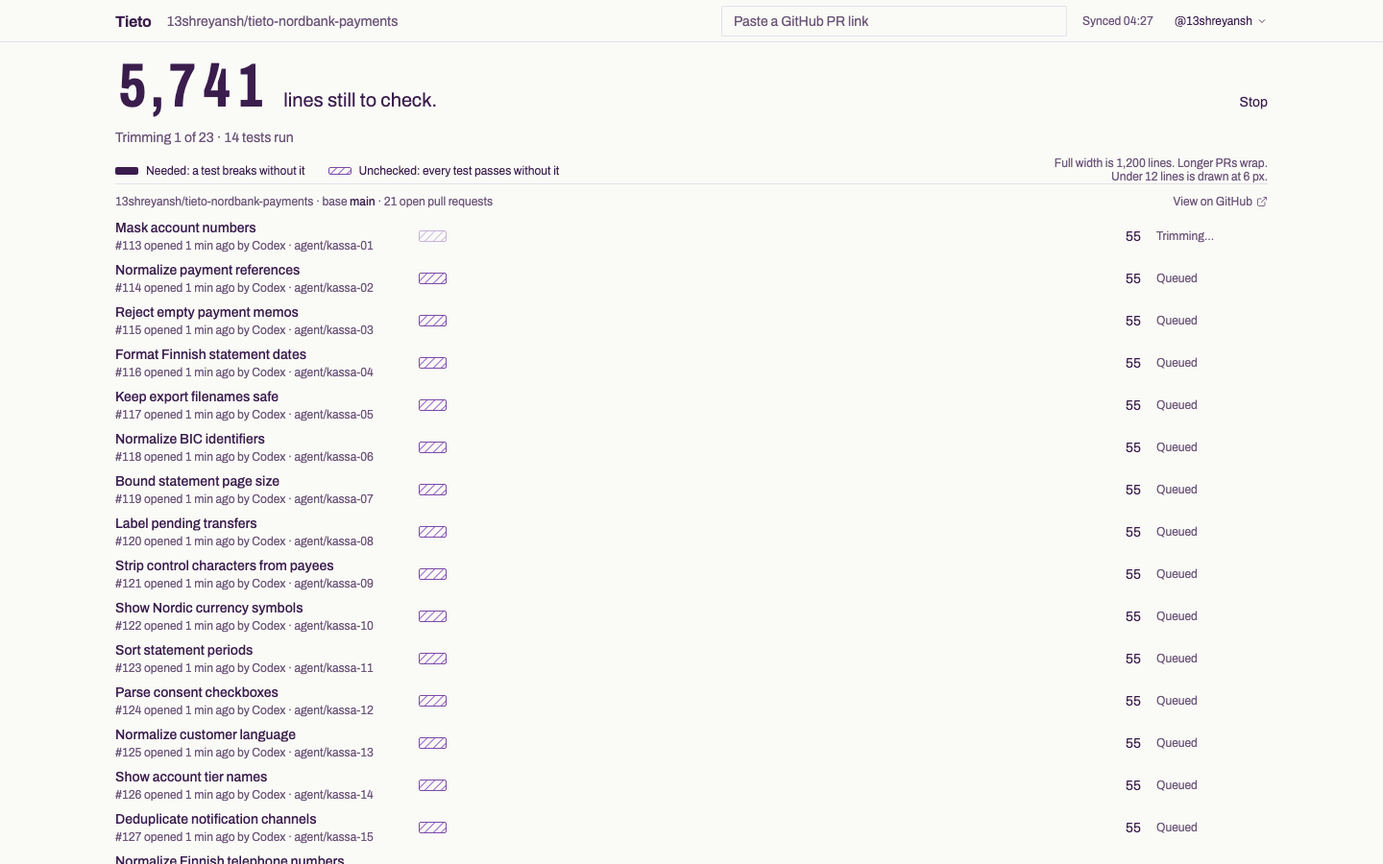
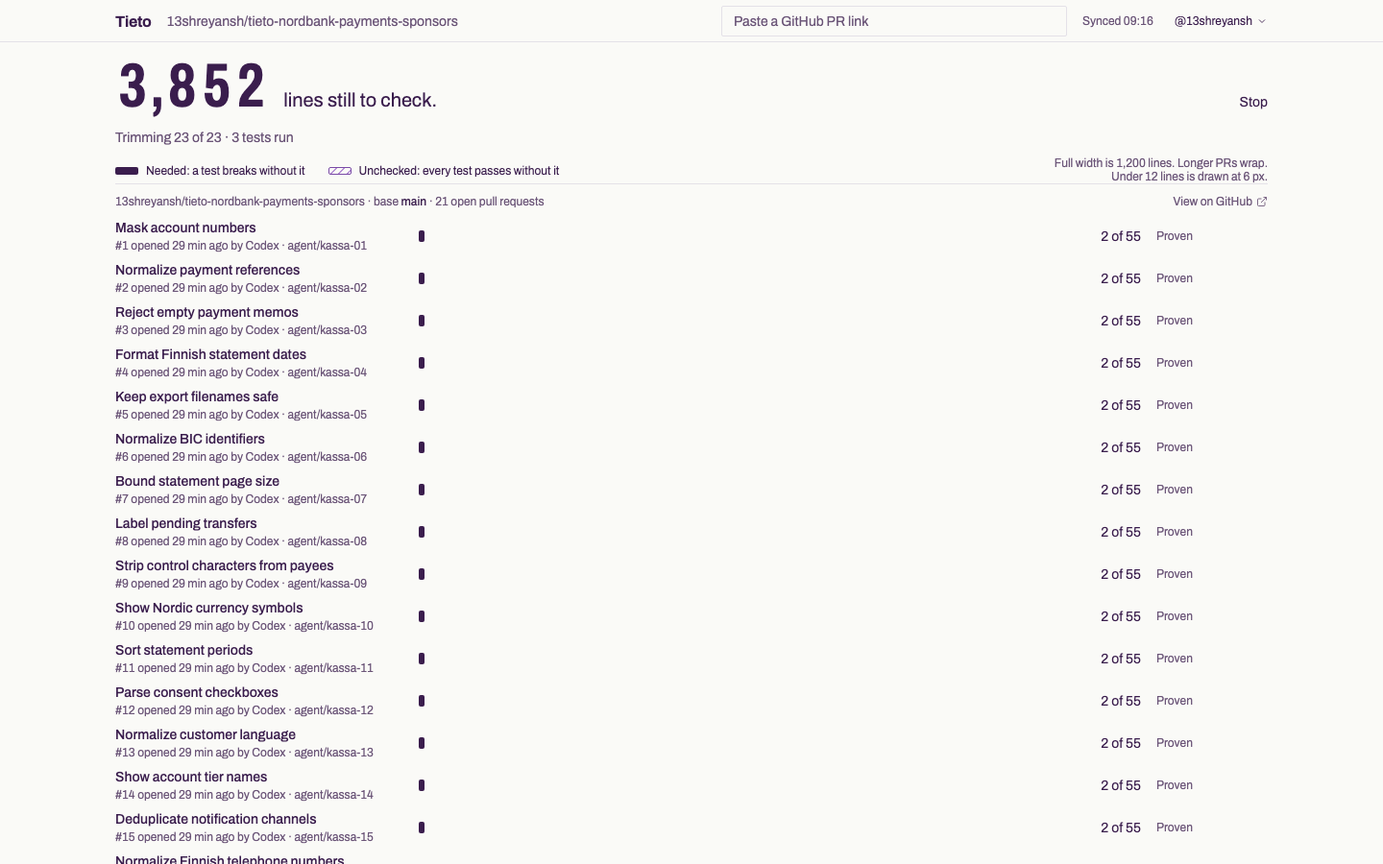
Bind cached runs to producer contracts and restore mobile proof layout

diff --git a/app/app.js b/app/app.js
@@ -85,7 +85,7 @@
   const grouped=p.tests>48,n=grouped?p.lampFiles:p.tests;
   return `<span class="lamps" aria-hidden="true">${Array.from({length:n||0},()=>`<i class="lamp ${['queued','running'].includes(p.status)?'running':p.kind==='junior'?'failed':''}"></i>`).join('')}</span><span class="proof-copy">${p.passed} of ${p.tests} ${p.kind==='junior'?'safety checks pass on this PR.':'tests pass on the trimmed PR.'}${grouped?' Lamps represent test files.':''}</span>`;
  }
- function proof(p){return `<div class="ledger-line proof"><dt>Proof</dt><dd>${p.tests===null?`<span>${p.status==='running'?'Trimming…':p.status==='queued'?'Queued':p.status==='unsupported'?'No test run for this repository.':'No test run yet.'}</span>`:lamps(p)}${p.cachedMeasurement?`<span class="caption">Same source · measured ${escape(clock(p.measurementOriginAt))} · PR #${escape(p.measurementOriginNumber)} · head ${escape((p.measurementOriginHead||'').slice(0,7))}. Re-run for a fresh check.</span>`:p.executionProvider==='modal'?'<span class="caption">Tests run in Modal.</span>':''}<div class="proof-links">${p.tests!==null?`<a href="/api/proof?id=${encodeURIComponent(p.id)}" target="_blank" rel="noopener">Recorded commands & results</a>`:''}${p.codeContext?.available?`<a href="/api/context?id=${encodeURIComponent(p.id)}" target="_blank" rel="noopener">Code context</a>`:''}${p.executionProvider==='modal'?`<a href="/api/run-log?id=${encodeURIComponent(p.id)}" target="_blank" rel="noopener">Execution archive</a>`:''}${p.tests!==null?`<button class="plain" data-action="recheck" ${running()||pending?'disabled':''}>Re-run tests</button>`:''}</div></dd></div>`;}
+ function proof(p){return `<div class="ledger-line proof"><dt>Proof</dt><dd>${p.tests===null?`<span>${p.status==='running'?'Trimming…':p.status==='queued'?'Queued':p.status==='unsupported'?'No test run for this repository.':'No test run yet.'}</span>`:lamps(p)}<div class="proof-links">${p.tests!==null?`<a href="/api/proof?id=${encodeURIComponent(p.id)}" target="_blank" rel="noopener">Run details</a>`:''}${p.codeContext?.available?`<a href="/api/context?id=${encodeURIComponent(p.id)}" target="_blank" rel="noopener">Code context</a>`:''}${p.archiveStored?`<a href="/api/run-log?id=${encodeURIComponent(p.id)}" target="_blank" rel="noopener">Execution archive</a>`:''}${p.tests!==null?`<button class="plain" data-action="recheck" ${running()||pending?'disabled':''}>Re-run tests</button>`:''}</div></dd></div>`;}
  function riskPanel(p){
   const risk=p.risk[riskIndex]||p.risk[0];if(!risk)return '';
   return `<section class="risk-panel"><div class="risk-head"><span>${escape(risk.path)} · ${risk.start}–${risk.start+risk.lines.length-1}</span>${p.risk.length>1?'<button class="plain" data-action="next-risk">Next check</button>':'<button class="plain" data-action="panel">Close</button>'}</div><div class="code">${risk.lines.slice(0,8).map((line,i)=>`<span class="code-line ${i===risk.marked?'marked':''}"><span class="code-number">${risk.start+i}</span>${escape(line)}</span>`).join('')}</div><p class="risk-note">${escape(risk.note)}</p></section>`;
@@ -101,7 +101,7 @@
   else if(junior)action=`<button class="primary" data-action="block" ${pending?'disabled':''}>${pending==='block'?'Blocking…':'Block and ask what they meant'}</button><span class="key-hint">B</span>`;
   else if(R.proven(p))action=`<span class="action-copy">Merges ${p.kept} of ${p.written} lines into main</span><button class="primary" data-action="finish" data-id="${p.id}" ${pending?'disabled':''}>${pending==='finish'?'Finishing…':'Finish'}</button><span class="key-hint">Enter</span>`;
   else action=`<div class="action-copy"><div contenteditable="true" role="textbox" aria-label="Note to the agent" class="editable" id="agent-note">${escape(notes.get(p.id)??p.note)}</div></div><button class="primary" data-action="return" ${pending?'disabled':''}>${pending==='return'?'Sending…':'Send back trimmed'}</button><span class="key-hint">S</span>`;
-  return `<main class="ledger ${panel?'risk-open':''}"><nav class="ledger-nav"><button class="plain" data-action="inbox">${arrow} Inbox · ${data.prs.length} left</button></nav><h1>${escape(p.title)}</h1><div class="metadata"><a href="${escape(p.github)}" target="_blank" rel="noopener">${escape(p.repo)} #${p.number}</a><span>opened ${ago(p.createdAt)} by ${escape(p.agent)}</span>${p.branch?`<span>${escape(p.branch)}${p.outside?'':' into main'}</span>`:''}${p.headSha?`<span>head ${escape(p.headSha.slice(0,7))}</span>`:''}<a href="${escape(p.github)}/files" target="_blank" rel="noopener">Check on GitHub</a>${isDone?'<span>Measured</span>':''}</div>${namedBar(p)}${panel?'<button class="mobile-back" data-action="panel">Back to ledger</button>':''}<dl class="ledger-lines"><div class="ledger-line"><dt>Asked</dt><dd>"${escape(p.ask)}"${junior?` <span class="caption">This can't be checked. No test can tell when it's done.</span>`:''}</dd></div>${isDone?`<div class="ledger-line"><dt>Did</dt><dd>${junior?'Changes login, pricing and a database migration.':`Did it in <strong>${p.kept}</strong> lines. ${p.neededFailures} failing checks without them.`}</dd></div><div class="ledger-line"><dt>Extra</dt><dd>${junior?'Nothing is provably needed.':p.unchecked?`${format(p.unchecked)} lines nothing checks, extra or untested. All ${p.tests} tests pass without them.<br>${extra(p).map(b=>`<button class="extra-chip" data-action="restore" data-block="${escape(b.id)}">${escape(b.name)} · ${format(b.lines)}</button>`).join('')}`:'Nothing extra.'}</dd></div><div class="ledger-line"><dt>Read these</dt><dd>${junior?`<span class="check-summary">3 changes break production.</span><div class="junior-checks">${p.risk.map((r,i)=>`<button class="plain" data-action="risk" data-index="${i}">${escape(r.note)}</button>`).join('')}</div>`:p.risk.length?`<button class="read-link" data-action="panel">${p.readLines} lines to read.${p.kind==='cap'?' 1 looks wrong.':''}</button>`:'Nothing risky.'}</dd></div>`:''}${!panel?proof(p):''}</dl>${panel?riskPanel(p)+`<dl>${proof(p)}</dl>`:''}${error?`<p class="inline-error" role="alert">${escape(error)}</p>`:''}<div class="actions">${action}</div></main>`;
+  return `<main class="ledger ${panel?'risk-open':''}"><nav class="ledger-nav"><button class="plain" data-action="inbox">${arrow} Inbox · ${data.prs.length} left</button></nav><h1>${escape(p.title)}</h1><div class="metadata"><a href="${escape(p.github)}" target="_blank" rel="noopener">${escape(p.repo)} #${p.number}</a><span>opened ${ago(p.createdAt)} by ${escape(p.agent)}</span>${p.branch?`<span>${escape(p.branch)}${p.outside?'':' into main'}</span>`:''}${p.headSha?`<span>head ${escape(p.headSha.slice(0,7))}</span>`:''}<a href="${escape(p.github)}/files" target="_blank" rel="noopener">Check on GitHub</a>${isDone?`<span>${p.executionProvider==='modal'?'Modal · ':''}measured ${escape(clock(p.measurementOriginAt||p.measuredAt))}${p.cachedMeasurement?' · PR #'+escape(p.measurementOriginNumber):''}</span>`:''}</div>${namedBar(p)}${panel?'<button class="mobile-back" data-action="panel">Back to ledger</button>':''}<dl class="ledger-lines"><div class="ledger-line"><dt>Asked</dt><dd>"${escape(p.ask)}"${junior?` <span class="caption">This can't be checked. No test can tell when it's done.</span>`:''}</dd></div>${isDone?`<div class="ledger-line"><dt>Did</dt><dd>${junior?'Changes login, pricing and a database migration.':`Did it in <strong>${p.kept}</strong> lines. ${p.neededFailures} failing checks without them.`}</dd></div><div class="ledger-line"><dt>Extra</dt><dd>${junior?'Nothing is provably needed.':p.unchecked?`${format(p.unchecked)} lines nothing checks, extra or untested. All ${p.tests} tests pass without them.<br>${extra(p).map(b=>`<button class="extra-chip" data-action="restore" data-block="${escape(b.id)}">${escape(b.name)} · ${format(b.lines)}</button>`).join('')}`:'Nothing extra.'}</dd></div><div class="ledger-line"><dt>Read these</dt><dd>${junior?`<span class="check-summary">3 changes break production.</span><div class="junior-checks">${p.risk.map((r,i)=>`<button class="plain" data-action="risk" data-index="${i}">${escape(r.note)}</button>`).join('')}</div>`:p.risk.length?`<button class="read-link" data-action="panel">${p.readLines} lines to read.${p.kind==='cap'?' 1 looks wrong.':''}</button>`:'Nothing risky.'}</dd></div>`:''}${!panel?proof(p):''}</dl>${panel?riskPanel(p)+`<dl>${proof(p)}</dl>`:''}${error?`<p class="inline-error" role="alert">${escape(error)}</p>`:''}<div class="actions">${action}</div></main>`;
  }
  function render(){
   const focused=document.activeElement?.id;

diff --git a/scripts/product/client-regressions.js b/scripts/product/client-regressions.js
@@ -8,5 +8,6 @@ async function setup(rows,repo){const dom=new JSDOM('<div id="app"></div>',{url:
  {const{dom,w}=await setup([{...p,id:'junior',kind:'junior',tests:3,passed:0}]),d=w.document;d.querySelector('[data-action="open"]').click();assert.match(d.querySelector('.proof-copy').textContent,/0 of 3 safety checks pass on this PR/);assert.doesNotMatch(d.querySelector('.proof-copy').textContent,/trimmed PR/);dom.window.close();}
  {const{dom,w}=await setup([p],'13shreyansh/tieto-nordbank-payments-sponsors'),d=w.document;assert.equal(d.querySelector('.workspace-name').getAttribute('href'),'https://github.com/13shreyansh/tieto-nordbank-payments-sponsors');assert.match(d.querySelector('.repo-line').textContent,/tieto-nordbank-payments-sponsors/);dom.window.close();}
  {const{dom,w}=await setup([p],'evil.example/<script>'),d=w.document;assert.equal(d.querySelector('.workspace-name').getAttribute('href'),'https://github.com/13shreyansh/tieto-nordbank-payments');dom.window.close();}
+ {const{dom,w}=await setup([{...p,executionProvider:'modal',codeContext:{available:true},measuredAt:new Date().toISOString()}]),d=w.document;d.querySelector('[data-action="open"]').click();assert.match(d.querySelector('.metadata').textContent,/Modal · measured/);assert.equal(d.querySelector('.proof .caption'),null,'provider status must not add a proof row that overlaps fixed phone actions');assert.equal([...d.querySelectorAll('.proof-links a')].some(a=>a.textContent==='Execution archive'),false,'pending Atlas must not advertise an archive');assert.equal(d.querySelector('.proof-links a').textContent,'Run details');dom.window.close();}
  console.log('Keyboard, note editor, safety proof and truthful isolated-workspace routing regressions passed.');
 })().catch(e=>{console.error(e);process.exitCode=1});

diff --git a/scripts/product/e2e.spec.js b/scripts/product/e2e.spec.js
@@ -35,7 +35,7 @@ for(const width of [390,1440])test(`real deployed workspace flow ${width}`,async
  await expect(page.locator('.footline')).toContainText('19 merged');await expect(page.getByRole('button',{name:'Revert last merge',exact:true})).toBeVisible();await shot('04-merged');
  await page.locator('.row-title[data-id="KASSA-CAP"]').click();await expect(page.locator('.ledger h1')).toHaveText('Cap instant-transfer fees');await page.waitForTimeout(1200);await expect(page.locator('.ledger-line dd').first()).toHaveCSS('font-size','16px');await expect(page.locator('.ledger-line dt').first()).toHaveCSS('font-size','14px');await shot('05-fee-ledger');
  if(process.env.TIETO_CANARY_REPO){
-  await expect(page.getByText(/Tests run in Modal\.|Same source · measured/)).toBeVisible();
+  await expect(page.getByText(/Modal · measured/)).toBeVisible();
   const popupWait=page.waitForEvent('popup');await page.getByRole('link',{name:'Code context',exact:true}).click();const popup=await popupWait;
   await expect(popup.locator('main')).toContainText('Code context from Entire Graph');await expect(popup.locator('a[href*="github.com"]').first()).toHaveAttribute('href',/\/blob\/[0-9a-f]{40}\//);
   await popup.screenshot({path:path.join(SHOTS,`${width}-05-code-context.png`)});await popup.close();

diff --git a/tests/test_measurement_cache.py b/tests/test_measurement_cache.py
@@ -9,11 +9,16 @@ from product import measurement_cache as cache
 class VerifiedMeasurementCacheTests(unittest.TestCase):
  def setUp(self):
   self.temp=tempfile.TemporaryDirectory();self.root=Path(self.temp.name);self.run=self.root/'runs/run';self.run.mkdir(parents=True)
-  self.folder=self.root/'verified';self.row={'repo':'owner/repo','headSha':'a'*40,'ask':'Cap fees','paths':['fee.py'],'kind':'cap'}
+  self.folder=self.root/'verified';self.row={'repo':'owner/repo','headSha':'a'*40,'ask':'Cap fees','paths':['fee.py'],'kind':'cap','id':'cap','outside':False}
   self.config={'tests':['oracle/test_fee.py'],'wholePaths':['fee.py']};self.base='b'*40
   self.report={'repo':'owner/repo','headSha':'a'*40,'baseSha':self.base,'number':7,'measuredAt':'2026-11-15T06:49:00Z',
     'final':{'exitCode':0,'tests':9,'passed':9,'execution':{'provider':'modal','runnerSha256':cache.profile()['runnerSha256']}},
     'heldOut':{'exitCode':1,'passed':0,'tests':1},'blocks':[],'controls':[],'patch':'public patch'}
+  self.report['measurementContract']=cache.contract(self.row,self.base,self.config)
+  self.report['producerRelease']='a'*40
+  self.report['final']['command']=['python','-B','-m','pytest','-q','oracle/test_fee.py','tests']
+  self.report['runs']=[copy.deepcopy(self.report['final'])]
+  self.report['heldOut'].update(command=['python','-B','-m','pytest','-q','oracle/test_cap_rounding.py'],execution=copy.deepcopy(self.report['final']['execution']))
   (self.run/'result.json').write_text(json.dumps(self.report))
   self.snapshot={'_root':str(self.run),'verdict':'needs-you','measuredAt':self.report['measuredAt'],'runId':'run','tests':9,'passed':9,'risk':[{'note':'Known rounding failure'}]}
  def tearDown(self):self.temp.cleanup()
@@ -38,6 +43,38 @@ class VerifiedMeasurementCacheTests(unittest.TestCase):
   self.report['final']['exitCode']=1;(self.run/'result.json').write_text(json.dumps(self.report));self.assertFalse(self.store())
   self.report['final']['exitCode']=0;(self.run/'result.json').write_text(json.dumps(self.report));self.store()
   self.report['heldOut']['passed']=1;(self.run/'result.json').write_text(json.dumps(self.report));self.assertIsNone(cache.load(self.folder,self.row,self.base,self.config))
+ def test_legacy_and_same_source_different_contract_are_declined_at_store(self):
+  for missing in ['measurementContract','producerRelease']:
+   report=copy.deepcopy(self.report);report.pop(missing);(self.run/'result.json').write_text(json.dumps(report));self.assertFalse(self.store())
+  (self.run/'result.json').write_text(json.dumps(self.report))
+  for field,value in [('ask','Different ask'),('paths',['different.py']),('id','another'),('kind','outside')]:
+   self.assertFalse(cache.store(self.folder,{**self.row,field:value},self.base,self.config,self.snapshot))
+  self.assertFalse(cache.store(self.folder,self.row,self.base,{**self.config,'tests':['different.py']},self.snapshot))
+ def test_actual_invocation_default_suite_and_heldout_must_match(self):
+  for location in ['final','heldOut']:
+   report=copy.deepcopy(self.report);report[location]['command']=['python','-B','-m','pytest','-q','different.py'];(self.run/'result.json').write_text(json.dumps(report));self.assertFalse(self.store())
+  report=copy.deepcopy(self.report);report['runs'][0]['command'].remove('tests');(self.run/'result.json').write_text(json.dumps(report));self.assertFalse(self.store())
+  report=copy.deepcopy(self.report);report.pop('heldOut');(self.run/'result.json').write_text(json.dumps(report));self.assertFalse(self.store())
+ def test_cached_measurement_does_not_allocate_runs_or_require_execution_disk(self):
+  from product import service
+  original=copy.deepcopy(service.STATE)
+  try:
+   row={**self.row,'number':1};service.STATE.clear();service.STATE.update(prs={'cap':row},batch=None)
+   with patch.object(service,'save'),patch.object(service.STOP,'is_set',return_value=False),patch.object(service,'api',side_effect=[{'head':{'sha':self.row['headSha']},'base':{'sha':self.base}},{'merge_base_commit':{'sha':self.base}}]),patch.object(service,'known_cases',return_value={'cap':self.config}),patch.dict('os.environ',{'TIETO_TEST_RUNNER':'modal'}),patch.object(cache,'load',return_value={'_root':str(self.run)}),patch.object(service.shutil,'disk_usage',side_effect=AssertionError('cache must not check execution capacity')),patch.object(Path,'mkdir',side_effect=AssertionError('cache must not create directory')):
+    service.measure('cap',True)
+   self.assertEqual(service.STATE['prs']['cap']['status'],'done')
+  finally:service.STATE.clear();service.STATE.update(original)
+ def test_sync_keeps_sibling_measurement_when_main_advances(self):
+  from product import service
+  original=copy.deepcopy(service.STATE)
+  try:
+   row={**self.row,'id':'CAP','number':1,'outside':False,'status':'done','github':'https://example/pr/1','targetSha':'old','updatedAt':'before','baseSha':self.base}
+   service.STATE.clear();service.STATE.update(prs={'CAP':row},batch=None)
+   updated={**row,'targetSha':'new-sibling-merge','updatedAt':'after','status':'unmeasured'}
+   with patch.object(service,'save'),patch.object(service,'client',return_value={}),patch.object(service,'known_cases',return_value={'CAP':self.config}),patch.object(service,'pages',return_value=[{'body':'<!-- tieto:case:CAP -->','number':1}]),patch.object(service,'fetch_pr',side_effect=lambda *args:updated if args[1]==1 else {**updated,'id':'outside-'+str(args[1]),'outside':True}):
+    service.sync(True)
+   self.assertEqual(service.STATE['prs']['CAP']['status'],'done');self.assertEqual(service.STATE['prs']['CAP']['baseSha'],self.base);self.assertEqual(service.STATE['prs']['CAP']['targetSha'],'new-sibling-merge')
+  finally:service.STATE.clear();service.STATE.update(original)
  def test_explicit_rerun_is_always_submitted_with_reuse_disabled(self):
   from product import service
   original=copy.deepcopy(service.STATE)

diff --git a/product/measurement_cache.py b/product/measurement_cache.py
@@ -3,6 +3,7 @@ import ast
 import hashlib
 import importlib.metadata
 import json
+import re
 from pathlib import Path
 import time
 
@@ -17,7 +18,7 @@ def risk_fingerprint(source):
 
 def profile():
     from .modal_runner import REMOTE_RUNNER,IMAGE_REQUIREMENTS
-    return {'engineSha256':hashlib.sha256((ROOT/'scripts/measure/engine.py').read_bytes()).hexdigest(),
+    return {'contractSchema':2,'measurementLogicSha256':hashlib.sha256(ast.dump(next(n for n in ast.parse((ROOT/'product/service.py').read_text()).body if isinstance(n,ast.FunctionDef) and n.name=='measure')).encode()).hexdigest(),'engineSha256':hashlib.sha256((ROOT/'scripts/measure/engine.py').read_bytes()).hexdigest(),
             'riskLogicSha256':risk_fingerprint((ROOT/'product/service.py').read_text()),
             'adapterSha256':hashlib.sha256((ROOT/'product/modal_runner.py').read_bytes()).hexdigest(),
             'contextSha256':hashlib.sha256((ROOT/'product/provenance.py').read_bytes()).hexdigest(),
@@ -25,27 +26,42 @@ def profile():
             'image':{'python':'3.12','pip':list(IMAGE_REQUIREMENTS),'modalSdk':importlib.metadata.version('modal'),
                      'networkBlocked':True,'cpu':1,'memoryMiB':1024,'secretsInjected':False}}
 
-def key(row,base_sha,config):
-    contract={'repo':row['repo'],'headSha':row['headSha'],'baseSha':base_sha,'ask':row['ask'],
-              'paths':row['paths'],'tests':config['tests'] if config else ['tests'],
-              'wholePaths':config.get('wholePaths',[]) if config else [],'kind':row['kind'],'profile':profile()}
-    return hashlib.sha256(json.dumps(contract,sort_keys=True,separators=(',',':')).encode()).hexdigest()
+def contract(row,base_sha,config):
+    tests=list(config['tests']) if config else ['tests']
+    if config and row['kind']!='junior':tests.append('tests')
+    return {'schema':2,'repo':row['repo'],'headSha':row['headSha'],'baseSha':base_sha,'ask':row['ask'],
+            'caseId':row.get('id'),'paths':row['paths'],'tests':tests,
+            'wholePaths':config.get('wholePaths',[]) if config else [],'kind':row['kind'],
+            'outside':bool(row.get('outside')),'heldOutTests':['oracle/test_cap_rounding.py'] if row['kind']=='cap' else [],
+            'profile':profile()}
 
-def _completed(report,row,base_sha):
-    final=report.get('final',{})
+def key(row,base_sha,config):
+    return hashlib.sha256(json.dumps(contract(row,base_sha,config),sort_keys=True,separators=(',',':')).encode()).hexdigest()
+
+def _completed(report,row,base_sha,config=None):
+    expected=contract(row,base_sha,config);final=report.get('final',{})
+    # Legacy reports lack producer-side request/invocation/release attestation. Never infer it from today's row.
+    if report.get('measurementContract')!=expected or not re.fullmatch('[0-9a-f]{40}',str(report.get('producerRelease',''))):return False
+    checks=[*report.get('runs',[]),*report.get('controls',[]),final]
+    if not checks or not report.get('runs'):return False
+    def actual(check,tests):
+        return (check.get('command')==['python','-B','-m','pytest','-q',*tests]
+                and check.get('execution',{}).get('provider')=='modal'
+                and check.get('execution',{}).get('runnerSha256')==expected['profile']['runnerSha256']
+                and isinstance(check.get('exitCode'),int))
+    if any(not actual(check,expected['tests']) for check in checks):return False
+    if expected['heldOutTests'] and not actual(report.get('heldOut',{}),expected['heldOutTests']):return False
     return (report.get('repo')==row['repo'] and report.get('headSha')==row['headSha'] and report.get('baseSha')==base_sha
-            and bool(report.get('measuredAt')) and report.get('final',{}).get('exitCode')==0
+            and bool(report.get('measuredAt')) and final.get('exitCode')==0
             and isinstance(final.get('tests'),int) and final['tests']>0
             and isinstance(final.get('passed'),int) and final['passed']==final['tests']
-            and report.get('final',{}).get('execution',{}).get('provider')=='modal'
-            and report.get('final',{}).get('execution',{}).get('runnerSha256')==profile()['runnerSha256']
             and 'blocks' in report and 'patch' in report and 'controls' in report)
 
 def store(folder,row,base_sha,config,measured_row,*,origin_commit=None):
     root=Path(measured_row['_root']).resolve();runs=(Path(folder).parent/'runs').resolve()
     if not root.is_relative_to(runs):raise ValueError('Measurement root is outside the owned run store')
     report=json.loads((root/'result.json').read_text())
-    if not _completed(report,row,base_sha):return False
+    if not _completed(report,row,base_sha,config):return False
     folder=Path(folder);folder.mkdir(parents=True,exist_ok=True)
     data={'key':key(row,base_sha,config),'created':time.time(),'profile':profile(),
           'originCommit':origin_commit,'originNumber':report['number'],'originMeasuredAt':report['measuredAt'],
@@ -61,7 +77,7 @@ def load(folder,row,base_sha,config):
         snapshot=data['row'];root=Path(snapshot['_root']).resolve();runs=(Path(folder).parent/'runs').resolve()
         if not root.is_relative_to(runs):return None
         raw=(root/'result.json').read_bytes();report=json.loads(raw)
-        if hashlib.sha256(raw).hexdigest()!=data['resultSha256'] or not _completed(report,row,base_sha):return None
+        if hashlib.sha256(raw).hexdigest()!=data['resultSha256'] or not _completed(report,row,base_sha,config):return None
         return {**snapshot,'cachedMeasurement':True,'measurementOriginNumber':data['originNumber'],
                 'measurementOriginAt':data['originMeasuredAt'],'measurementOriginHead':report['headSha'],'testsRun':0}
     except (OSError,ValueError,KeyError,TypeError):return None

diff --git a/product/service.py b/product/service.py
@@ -9,6 +9,7 @@ import os
 from pathlib import Path
 import re
 import shutil
+import subprocess
 import sys
 import tarfile
 import threading
@@ -75,7 +76,9 @@ def sync(force=False):
  with LOCK:
   for row in rows:
    old=STATE['prs'].get(row['id'])
-   if old and old['headSha']==row['headSha'] and old['number']==row['number']:
+   # A sibling merge moves main without changing this PR's immutable measured merge base.
+   # Finish independently revalidates the patch on current main before writing.
+   if old and all(old.get(k)==row.get(k) for k in ('headSha','number','ask','paths')):
     old.update({k:row[k] for k in ('github','updatedAt','targetSha')})
    else:STATE['prs'][row['id']]=row
   open_ids={r['id'] for r in rows if not r['outside']}
@@ -172,10 +175,8 @@ def measure(id,reuse=False):
     if batch['completed']>=batch['total']:batch['running']=False
    save();return
   p.update(status='running',testsRun=0,error=None);row=dict(p);save()
- root=VAR/'runs'/uuid.uuid4().hex;root.mkdir(parents=True)
+ root=VAR/'runs'/uuid.uuid4().hex
  try:
-  if shutil.disk_usage(VAR).free<2_000_000_000:raise ValueError("Can't run this repo's tests here")
-  if sum(p.stat().st_size for p in (VAR/'runs').rglob('*') if p.is_file())>1_000_000_000:raise ValueError("Can't run this repo's tests here")
   full=row['repo'];pr=api(f'/repos/{full}/pulls/{row["number"]}')
   if pr['head']['sha']!=row['headSha']:raise ValueError('PR changed. Sync and run again.')
   comparison=api(f'/repos/{full}/compare/{pr["base"]["sha"]}...{row["headSha"]}')
@@ -187,6 +188,9 @@ def measure(id,reuse=False):
    if cached:
     with LOCK:STATE['prs'][id].update(cached,status='done',error=None);save()
     return
+  if shutil.disk_usage(VAR).free<2_000_000_000:raise ValueError("Can't run this repo's tests here")
+  if sum(p.stat().st_size for p in (VAR/'runs').rglob('*') if p.is_file())>1_000_000_000:raise ValueError("Can't run this repo's tests here")
+  root.mkdir(parents=True)
   unpack(full,base_sha,root/'base');unpack(full,row['headSha'],root/'head')
   base=root/'base';head=root/'head';work=root/'work';logs=root/'logs';check=runner(root,metadata=row)
   from .provenance import code_context
@@ -230,6 +234,9 @@ def measure(id,reuse=False):
    for b in blocks:b['name']=names.get(b.get('path'),b['name'])
   # Bind every action to both measured commits and the actual generated patch.
   result.update(baseSha=base_sha,headSha=row['headSha'],repo=full,number=row['number'],measuredAt=now(),runId=root.name,codeContext=context)
+  from .measurement_cache import contract
+  result['measurementContract']=contract(row,base_sha,config)
+  result['producerRelease']=(ROOT/'release-commit').read_text().strip() if (ROOT/'release-commit').exists() else subprocess.check_output(['git','rev-parse','HEAD'],cwd=ROOT,text=True).strip()
   (root/'result.json').write_text(json.dumps(result));(root/'trimmed.patch').write_text(result['patch'])
   with LOCK:
    p=STATE['prs'][id];p.update(status='done',verdict=verdict,written=result['written'],kept=result['kept'],unchecked=result['unchecked'],tests=final['tests'],passed=final['passed'],blocks=[{k:b[k] for k in ('id','name','lines','needed') if k in b} for b in blocks],risk=risk,readLines=sum(len(r.get('lines',[])) for r in risk),lampFiles=len(set('.'.join(c['name'].split('.')[:2]) for c in final['cases'])),neededFailures=sum(not c['passed'] for control in result['controls'] for c in control['cases']),riskPosition=position(result,base,head,risk[0]) if risk and row['kind']!='junior' else None,measuredAt=result['measuredAt'],baseSha=base_sha,patchSha256=result.get('patchSha256'),runId=root.name,executionProvider=final.get('execution',{}).get('provider','local'),codeContext=context,cachedMeasurement=False,_root=str(root));save()
@@ -275,7 +282,7 @@ def add(url):
  full,n=parse_pr(url);row=fetch_pr(full,n,known_cases().get(next((id for id,c in known_cases().items() if full==FULL and workspace_config().get('numbers',{}).get(id)==n),'')))
  with LOCK:
   old=STATE['prs'].get(row['id'])
-  if old and old.get('headSha')==row['headSha'] and old.get('status')=='done':return client()
+  if old and all(old.get(k)==row.get(k) for k in ('headSha','ask','paths')) and old.get('status')=='done':return client()
   STATE['prs'][row['id']]=row;save()
  # A pasted public PR runs immediately; it is independent of a workspace batch.
  with LOCK:

diff --git a/scripts/product/seed_measurements.py b/scripts/product/seed_measurements.py
@@ -17,11 +17,13 @@ def main():
     from product.measurement_cache import _completed,store,risk_fingerprint
     if risk_fingerprint((original/'product/service.py').read_text())!=risk_fingerprint((ROOT/'product/service.py').read_text()):
         raise ValueError('Risk classification changed; old runs cannot be seeded')
-    service.sync(True);seeded=0
+    service.sync(True);seeded=0;declined=[]
     for path in (service.VAR/'runs').glob('*/result.json'):
         result=json.loads(path.read_text());root=path.parent
         row=next((p for p in service.STATE['prs'].values() if p['repo']==result.get('repo') and p['headSha']==result.get('headSha')),None)
-        if not row or row['kind']=='junior' or not _completed(result,row,result.get('baseSha')):continue
+        config=service.known_cases().get(row['id']) if row else None
+        if not row or row['kind']=='junior' or not _completed(result,row,result.get('baseSha'),config):
+            declined.append({'report':root.name,'sha256':hashlib.sha256(path.read_bytes()).hexdigest(),'measuredAt':result.get('measuredAt'),'reason':'missing or mismatched producer contract, invocation or completed result'});continue
         risk=service.find_risks(row,result,root/'head')
         if row['kind']=='cap' and result.get('heldOut'):risk[0]['failure']=result['heldOut']['output'][:4000]
         final=result['final'];blocks=result['blocks']
@@ -37,6 +39,6 @@ def main():
           'runId':result['runId'],'executionProvider':'modal','codeContext':result['codeContext'],'_root':str(root)}
         seeded+=bool(store(service.VAR/'verified',row,result['baseSha'],service.known_cases().get(row['id']),measured,
                           origin_commit=(original/'release-commit').read_text().strip()))
-    print(json.dumps({'completedActualRunsSeeded':seeded,'partialRunsSeeded':0,'sourceRelease':str(original)}))
+    print(json.dumps({'completedActualRunsSeeded':seeded,'partialRunsSeeded':0,'sourceRelease':str(original),'declinedCount':len(declined),'declined':declined}))
 
 if __name__=='__main__':main()

diff --git a/README.md b/README.md
@@ -16,29 +16,41 @@ AI writes code. It does not perform runtime review or grant merge approval. A na
 
 ```mermaid
 flowchart LR
-    T[Task and proposed patch] --> W[Python workspace worker]
-    W --> S[Local test sandbox]
-    S --> E[Fixed-test results and behaviour evidence]
+    T[Task and proposed patch] --> W[Trusted Python broker on VPS]
+    W --> M[Fresh Modal Sandbox per check]
+    M --> E[Bounded test results]
+    W --> G[Entire Graph at the reviewed source SHA]
     E --> U[Browser review workspace]
+    G --> U
     U --> H[Named human decision]
-    H --> G[GitHub merge, return or block on owned repo]
+    H --> R[GitHub action on owned repository]
+    W --> O[Durable local metadata outbox]
+    O -. credentials pending .-> A[MongoDB Atlas]
 ```
 
-The frontend is on Vercel. The current interactive Python worker runs on the builder's Mac through a Cloudflare quick tunnel. Keep that machine awake and online while using this deployment. This is a material hosting limitation; Modal is not running it today.
+The [cloud integration canary](https://pr-trailer-sponsors.72.61.22.106.sslip.io) runs the broker on an existing VPS and executes tests in Modal. It does not depend on the builder's Mac. Its write actions target an isolated owned bank repository. `/build.json` identifies its exact application release.
 
-The documented live behaviour includes application changes newer than the published application snapshot at the time of this README update. This documentation-only publication does not publish those pending application commits. Some local behaviour may therefore differ from the live workspace.
+The original Vercel URL still routes to the older Mac-hosted worker until the cloud release passes the full desktop and phone acceptance test and independent review. The original repository and public route have not been replaced by this feature branch.
 
 ## Sponsor use
 
-| Service | Status and role |
+| Service | Implemented role and evidence |
 | --- | --- |
-| Codex | Used during development to build, revise and verify the review product. The runtime does not ask Codex to approve a merge. |
-| CRACI | **Planned, not implemented.** Run the existing Python and JavaScript checks on CRACI CI. |
-| Modal | **Planned, not implemented.** Execute isolated test reruns in Modal Sandboxes and return bounded logs and exit status. This does not yet remove the Mac-hosted worker. |
-| MongoDB Atlas | **Planned, not implemented.** Retain execution metadata and review-event logs with run and PR identifiers. |
-| Entire | **Planned, not implemented.** Use Entire Sessions/Graph to connect coding-session evidence to the change under review. An Entire account is still needed. |
+| Codex | Used to build, revise and verify the product. The runtime does not ask Codex to approve a merge. |
+| CRACI | Real `runs-on: craci` workflow runs Python and JavaScript regression checks. [Successful run](https://github.com/13shreyansh/pr-trailer/actions/runs/43685139962). |
+| Modal | Actual fresh Sandboxes execute fixed request tests, removal trials, necessity controls and held-out checks. Each report records its Sandbox ID, wrapper digest, bounded output, exit status and original time. [Real provider receipt](evidence/sponsor-live-verification.json). |
+| Entire Graph | Runs against the actual reviewed checkout and ask, pinned to its source SHA. The Code context link shows graph evidence with source links. The official local Graph binary needs no hosted account. This integration does not capture Entire Sessions. |
+| MongoDB Atlas | Adapter, idempotent execution/review-event metadata and durable local outbox are implemented. Provider credential configuration and remote write/read verification remain pending. No live Atlas usage or qualification is claimed. |
 
-Draft prize registration is not evidence that these planned services already work.
+### What Modal can access
+
+The trusted broker owns GitHub credentials. Sandboxes receive a bounded source archive, fixed tests and the command to run. They receive no broker secrets and cannot access the network. The source tree is read-only to the test user. The wrapper bounds CPU, duration, output and filesystem reads, rejects nonregular result files, and terminates each Sandbox after its check. A provider failure is shown as a failed run, with no silent local fallback.
+
+Completed reports can be reused only when a producer-written contract matches the source/base SHA, ask, case, changed paths, effective test invocation, held-out invocation and execution profile. Reused evidence displays its original measurement time and source; it is not a newly timed execution. Explicit Re-run tests always calls the provider. Legacy reports without that producer contract are declined.
+
+### What the log store retains
+
+Execution and acknowledged merge, return, block, unblock and revert events contain PR/run identifiers, commit hashes, counts, digests and provider metadata. They exclude raw source, test output, reviewer free text and credentials. An idempotent local SQLite outbox retries Atlas delivery. A pending event is never reported as stored remotely. Atlas must be configured and tested before this can be described as a live remote archive.
 
 ## Inspect locally
 
@@ -72,18 +84,13 @@ Two important failures remain in the evidence: a retained cap is not wired into 
 
 The bank is synthetic. Public Reduino/GPL examples and AI-generated development records require their original attribution and licence treatment. See [docs/RESULTS.md](docs/RESULTS.md), [docs/MEASURE-REVIEW.md](docs/MEASURE-REVIEW.md) and [DECISIONS.md](DECISIONS.md).
 
-## Planned execution and provenance
+## Cloud operation
 
-```mermaid
-flowchart LR
-    W[Existing worker] -. planned rerun request .-> M[Modal Sandbox]
-    M -. bounded results .-> R[Review evidence]
-    M -. run metadata .-> D[MongoDB Atlas]
-    E[Entire Sessions and Graph] -. planned session links .-> R
-    C[CRACI CI] -. planned .-> T[Existing regression checks]
-```
+The trusted broker reads encrypted systemd credentials into memory. Persistent credentials are stored only as host-key-encrypted ciphertext. Do not create plaintext environment files or put credential values in command arguments.
 
-After implementation approval, Modal needs a real sandbox run, timeout handling and a rerun against a frozen case. Atlas needs a retained run log that can be retrieved after restart without storing credentials or private source text by default. Entire needs an account and a real session/graph link that helps explain a reviewed change. CRACI needs a successful `runs-on: craci` job. None of these receipts exists for the planned integrations today.
+`TIETO_TEST_RUNNER=modal` selects real Modal execution. `ENTIRE_GRAPH_BIN` points to the checksum-verified Graph binary. `TIETO_STATE_DIR` and `TIETO_WORKSPACE_CONFIG` isolate product state and the owned test repository. The optional `MONGODB_URI` and `MONGODB_DATABASE` enable remote metadata delivery after configuration. Provider credentials stay with the broker and are never forwarded to Modal.
+
+`python scripts/product/stage_cloud.py` stages an exact committed archive on this entry's VPS. Deployment is separate from release to the public Vercel route. Run the deployed acceptance against the isolated canary and inspect real GitHub receipts before promotion.
 
 ## Code map
 

diff --git a/STATUS.md b/STATUS.md
@@ -1,20 +1,8 @@
-Goal: stage a Mac-independent PR Trailer broker on the existing VPS with encrypted credentials.
-Scope: a separate sponsor canary and owned test repository; original production route and worker stay untouched.
-Acceptance: real Modal reruns and Entire source context remain available through the cloud broker.
-Acceptance: source commit, HTTPS, persistent state and reset behaviour match the staged revision at desktop and phone widths.
-Atlas stays a pending durable outbox until its real connection is supplied; no completed Atlas claim is made.
-
-PR TRAILER / 15 Nov 2026 08:28 Helsinki / 63defab / https://pr-trailer.vercel.app
-
-DONE:
-
-- Prepared Modal test sandboxes, Atlas test/review metadata logging and runtime Entire Graph code context in the isolated feature branch.
-- Pushed draft PR https://github.com/13shreyansh/pr-trailer/pull/14 . Production, the existing Mac worker and all portal descriptions remain untouched.
-- Added portable cloud-worker packaging and provider verification instructions in docs/SPONSOR-HANDOFF.md.
-
-NUMBERS: dev measured 58/58 Python checks and four Node suites passed; baseline measured first CRACI feature run succeeded; held-out provider/deployed checks remain pending.
-SCREENSHOTS: pending canary deployment; no new deployed UI screenshots claimed.
-REVIEW: root review findings fixed with regressions; separate final 6 Astra review remains pending.
-NEXT: root runs verify_sponsors.py with in-memory Modal credentials, provisions Atlas, then tests and reviews the cloud canary before any production release.
-NEEDS DECISION: none for code; required provider access is being handled by root.
-BLOCKED: real Modal/Atlas receipts, deployed wide/phone acceptance and final independent review are not yet complete. No prize eligibility or live integration completion is claimed.
+PR TRAILER / 15 Nov 2026 09:29 Helsinki / feature branch pending commit / https://pr-trailer-sponsors.72.61.22.106.sslip.io
+DONE: Modal and Entire Graph are real on the isolated VPS canary. Producer contract v2 rejects unverifiable legacy cache reports. Phone Proof overlap fixed in source.
+NUMBERS: dev measured 67 Python tests and four Node suites passed; held-out measured 0/1 known rounding failure retained; baseline measured original live receipt request tests 9/9. Full browser acceptance pending.
+SCREENSHOTS: screenshots/fable/390-03b-outside.png records the previous real phone failure, not a pass; final replacement captures pending.
+REVIEW: 6 Astra reproduced and verified cache provenance fix; full final review pending.
+NEXT: stage this exact commit and rerun cold deployed phone and desktop acceptance on isolated test repo.
+NEEDS DECISION: none
+BLOCKED: Atlas credential handoff remains unavailable. Original production route and bank untouched. No final release until acceptance passes.
